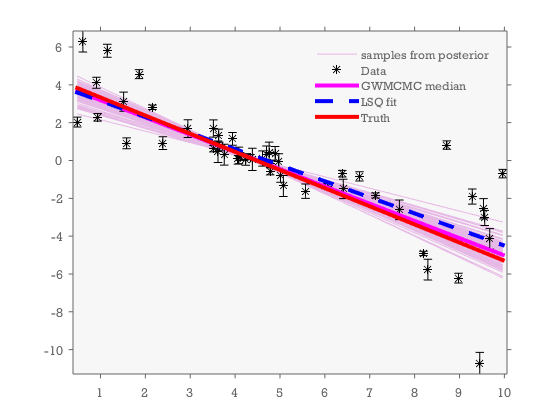
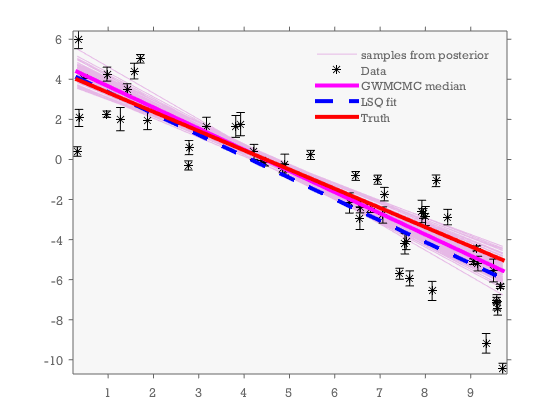
bugfix in mxdom2md

diff --git a/html/ex_linefit.md b/html/ex_linefit.md
@@ -34,7 +34,8 @@ errorbar(x,y,yerr,'k*');
 axis tight
 ```
 
-```m_true =
+```
+m_true =
       -0.9594
         4.294
      -0.62736
@@ -59,12 +60,13 @@ hold on
 plot(x,polyval(m_lsq,x),'b--','linewidth',3)
 ```
 
-```m_lsq =
-     -0.85054
-       4.0052
+```
+m_lsq =
+      -1.0692
+       4.4279
 sigma_m_lsq =
-     0.014015
-     0.079295
+     0.011028
+     0.076933
 
 ```
     
@@ -96,10 +98,11 @@ plot(x,forwardmodel(m_best),'m','linewidth',3)
 legend('Data','LSQ fit','MaxLike fit')
 ```
 
-```m_best =
-     -0.90714
-       4.0813
-      -0.5518
+```
+m_best =
+      -1.0551
+       4.6843
+     -0.70182
 
 ```
     
@@ -174,7 +177,8 @@ legend(h,'samples from posterior','Data','GWMCMC median','LSQ fit','Truth')
 ```
 
 ```
-Elapsed time is 7.110121 seconds.
+
+Elapsed time is 5.100262 seconds.
 
 ```
     

diff --git a/html/ex_rosenbrockbanana.md b/html/ex_rosenbrockbanana.md
@@ -63,7 +63,8 @@ legend('Rosenbrock','GWMCMC samples','location','northwest')
 ```
 
 ```
-Elapsed time is 3.022748 seconds.
+
+Elapsed time is 2.087418 seconds.
 
 ```
     

diff --git a/html/ex_behappy.md b/html/ex_behappy.md
@@ -43,6 +43,7 @@ title('GWMCMC says: "Don''t Worry, Be Happy!"');
 
 ```
 
+
 ```
     
 ![IMAGE](ex_behappy_01.png)
